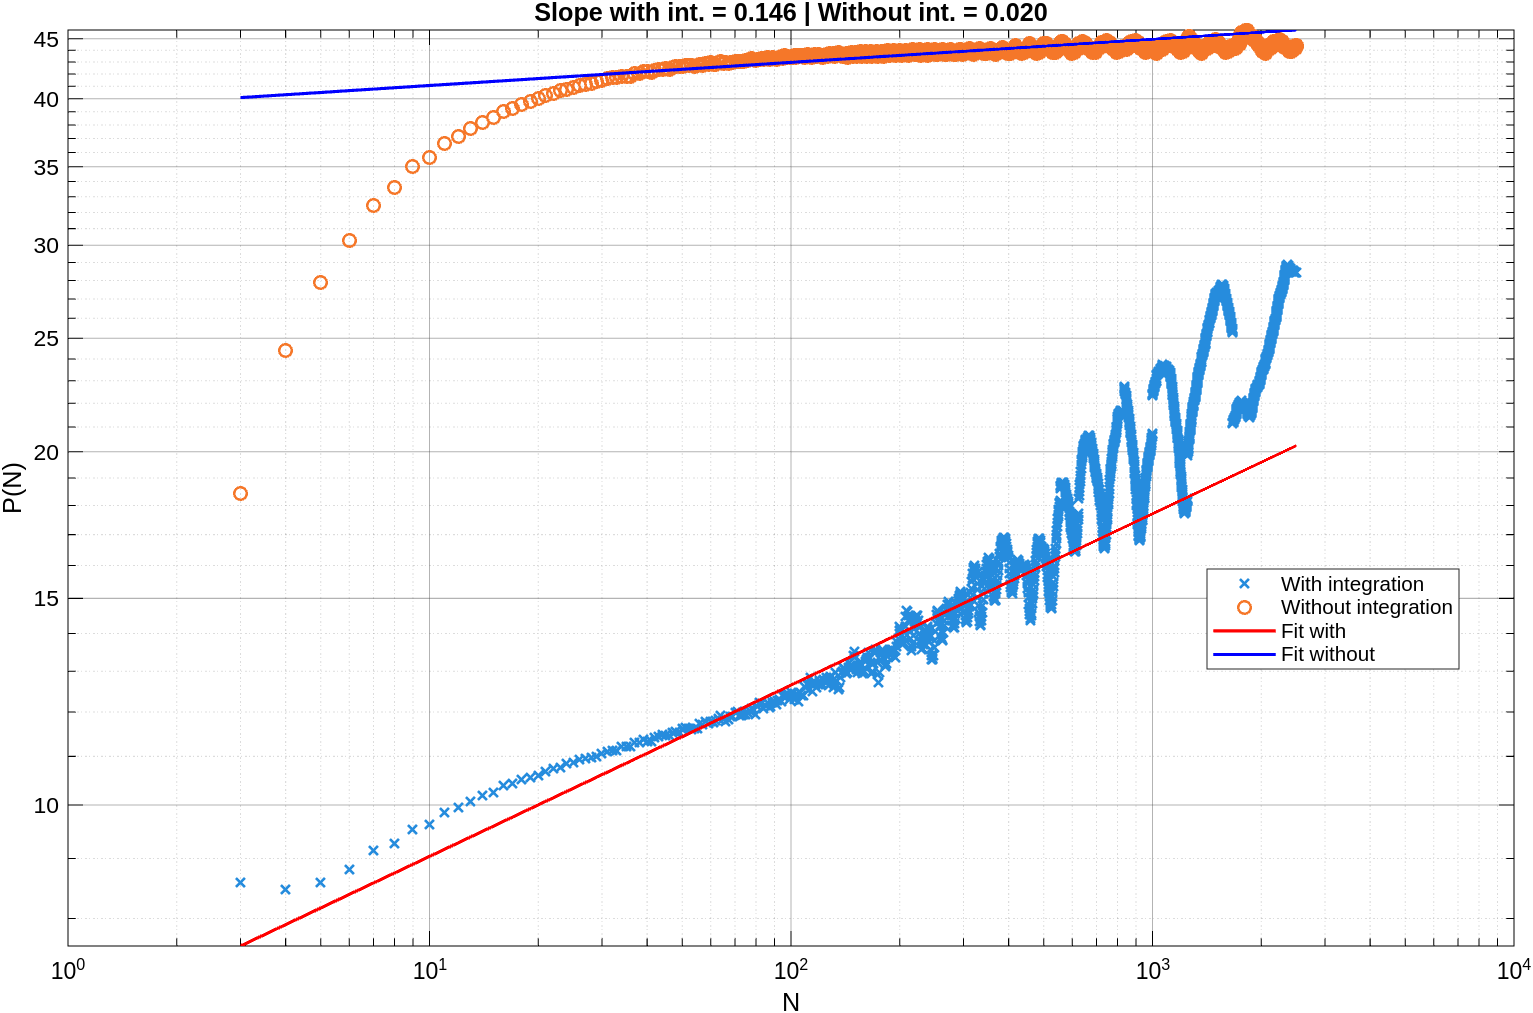
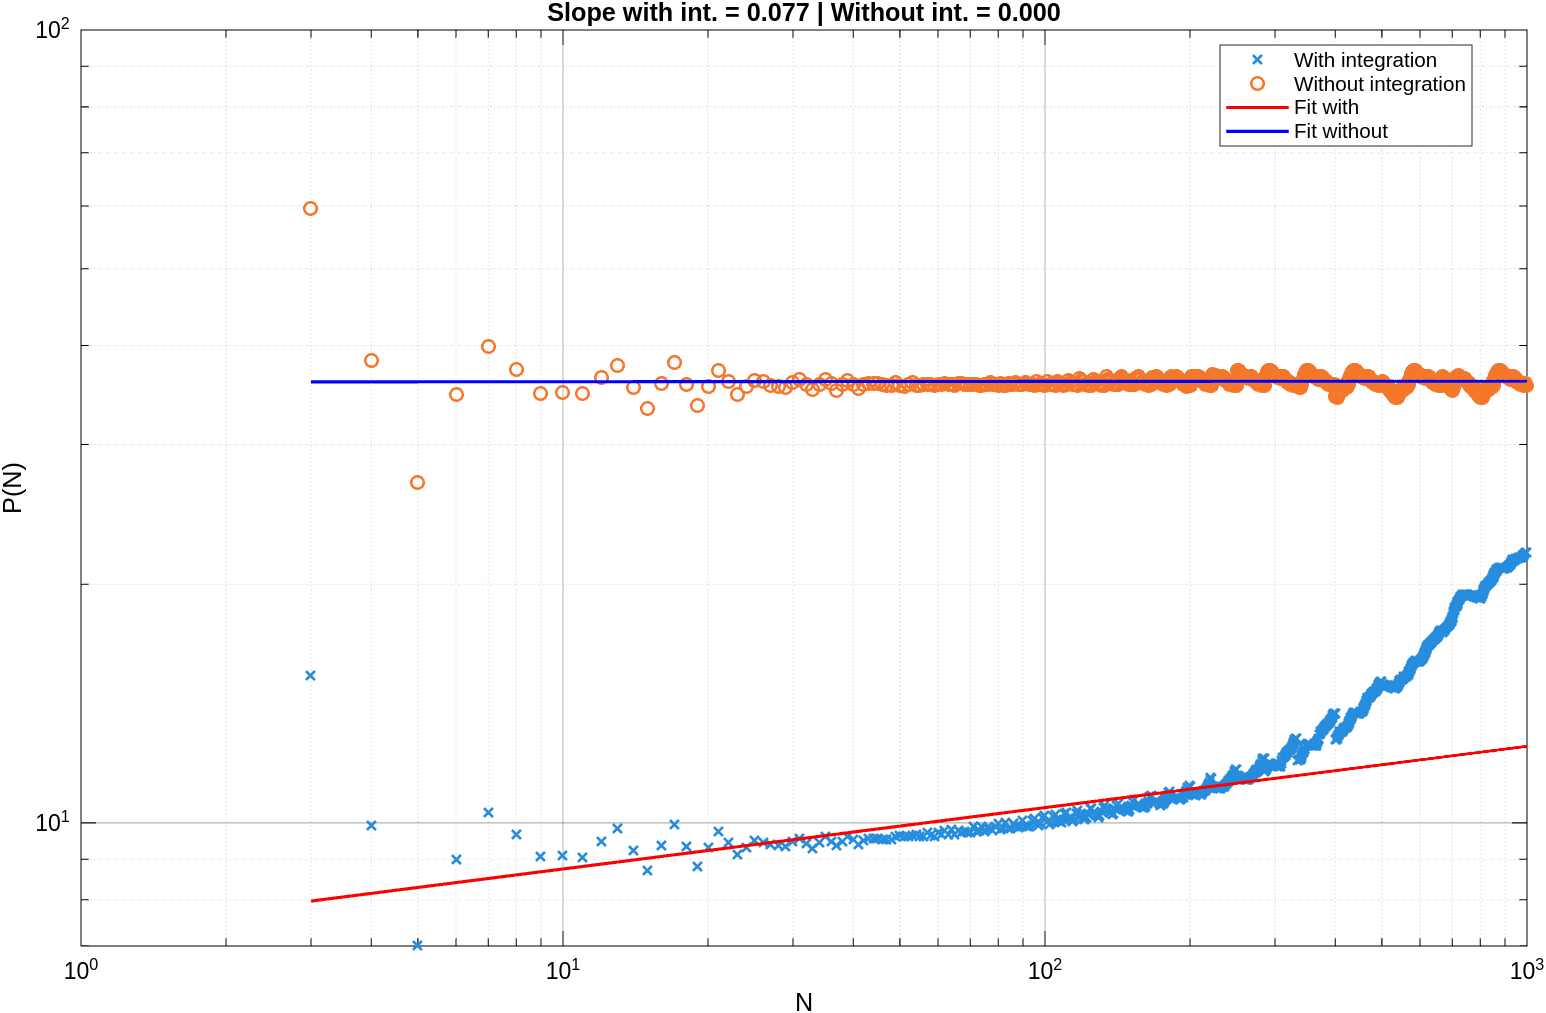
Fix: method trend computing + group delay

diff --git a/main.m b/main.m
@@ -3,9 +3,9 @@ addpath(genpath(pwd));
 
 rng(0); % Seed
 
-cfg.M = 5000;
+cfg.M = 2000;
 cfg.N_win = 50;
-cfg.trend_fun = @proc_trend_2c2;   % trend method (2a/2b/2c1/2c2)
+cfg.trend_fun = @proc_trend_2b;   % trend method (2a/2b/2c1/2c2)
 cfg.case_id = 'wgn';         % 'wgn' (RIF 4 zeros) or 'ar2' (RII 4 poles)
 cfg.fig_dir = './Figures';
 if ~exist(cfg.fig_dir, 'dir')
@@ -33,6 +33,7 @@ plot_local_trend(y, trend_visu, cfg.N_win, name, cfg.M, cfg.fig_dir);
 
 [Nv_y, P_y, coef_y, slope_y] = compute_power_proc_r(y, cfg.trend_fun);
 [Nv_x, P_x, coef_x, slope_x] = compute_power_proc_r(x, cfg.trend_fun); % without integration step.
+
 
 plot_loglog(Nv_y, P_y, coef_y, Nv_x, P_x, coef_x, slope_y, slope_x, name, cfg.fig_dir);
 

diff --git a/trend_method/proc_trend_2c2.m b/trend_method/proc_trend_2c2.m
@@ -1,15 +1,11 @@
 function trend = proc_trend_2c2(x, N)
-    M = length(x);
-    nb_wind = floor(M/N);
-    trend_x = zeros(M, 1);
-    h = ones(1, N) / N;
-    h_eq = zeros(1, 2*N-1);
+    x = x(:);
+    h = ones(N, 1) / N;
+    h_eq = zeros(2*N-1, 1);
     h_eq(N:2*N-1) = h;
-    h_eq(1:N)= h_eq(1:N) + fliplr(h);
-    for i = 1 : nb_wind
-        full = conv(x((i-1) * N + 1 : i*N), h_eq);
-        trend_segm = full(N:2*N-1);        
-        trend_x((i-1) * N + 1 : i*N) = trend_segm;
-    end
-    trend = trend_x;
+    h_eq(1:N)= h_eq(1:N) + flipud(h);
+    h_eq = h_eq/2;
+    full = conv(x, h_eq);
+
+    trend = full(N:N+length(x)-1);
 end

diff --git a/trend_method/proc_trend_2c1.m b/trend_method/proc_trend_2c1.m
@@ -1,13 +1,10 @@
 function trend = proc_trend_2c1(x, N)
-    M = length(x);
-    nb_wind = floor(M/N);
-    trend_x = zeros(M, 1);
+    x = x(:);
     h = ones(1, N) / N;
-    h_eq = conv(h, fliplr(h)); % Length = 2N-1 ; Shift = N-1
-    for i = 1 : nb_wind
-        full = conv(x((i-1) * N + 1 : i*N), h_eq); % Length = 3N-2
-        trend_segm = full(N:2*N-1);
-        trend_x((i-1) * N + 1 : i*N) = trend_segm;
-    end
+    h_eq = conv(h, flipud(h)); % Length = 2N-1 ; Shift = N-1
+
+    full = conv(x, h_eq); % Length = 3N-2
+    trend_x = full(N:N+length(x)-1);
+
     trend = trend_x;
 end

diff --git a/trend_method/proc_trend_2b.m b/trend_method/proc_trend_2b.m
@@ -1,12 +1,9 @@
 function trend = proc_trend_2b(x, N)
-    M = length(x);
-    nb_wind = floor(M/N);
-    trend_x = zeros(M, 1);
-    for i = 1 : nb_wind
-        z = exp(1j*2*pi*(1:N-1)/N);
-        b = real(poly(z)) / N;
-        trend_segm = filter(b, 1, x((i-1) * N + 1 : i*N));  
-        trend_x((i-1) * N + 1 : i*N) = trend_segm;
-    end
-    trend = trend_x;
+    x = x(:);
+    h = ones(N, 1)/N;
+    tau_group = floor((N-1)/2);
+    trend_x = filter(h, 1, x);
+
+    trend = trend_x(tau_group+1:end);
+    trend = [trend; zeros(tau_group,1)];
 end

diff --git a/estimation/compute_power_proc_r.m b/estimation/compute_power_proc_r.m
@@ -9,7 +9,7 @@ function [N_values, P, coef, slope] = compute_power_proc_r(y, trend_fun)
         r = y(1:L*Ni) - trend(1:L*Ni);
         P(idx) = mean(r.^2);
     end
-    idx_fit = N_values >= 15 & N_values <= floor(M/10); % Avoid extreme values for the fit
+    idx_fit = N_values >= 3 & N_values <= floor(M/6); % Avoid extreme values for the fit
     coef = polyfit(log(N_values(idx_fit)), log(P(idx_fit)), 1);
     slope = coef(1);
 end

diff --git a/plotting/plot_local_trend.m b/plotting/plot_local_trend.m
@@ -1,6 +1,6 @@
 function plot_local_trend(y, trend, N_win, name, M, fig_dir)
     t0 = 1;
-    t1 = min(20*N_win, length(y)); % We plot only 20 windows
+    t1 = length(y);
     t = (t0:t1)';
     figure('Name', sprintf('Local trend - %s', name));
     plot(t, y(t0:t1), 'DisplayName', 'Integrated signal y[n]');
